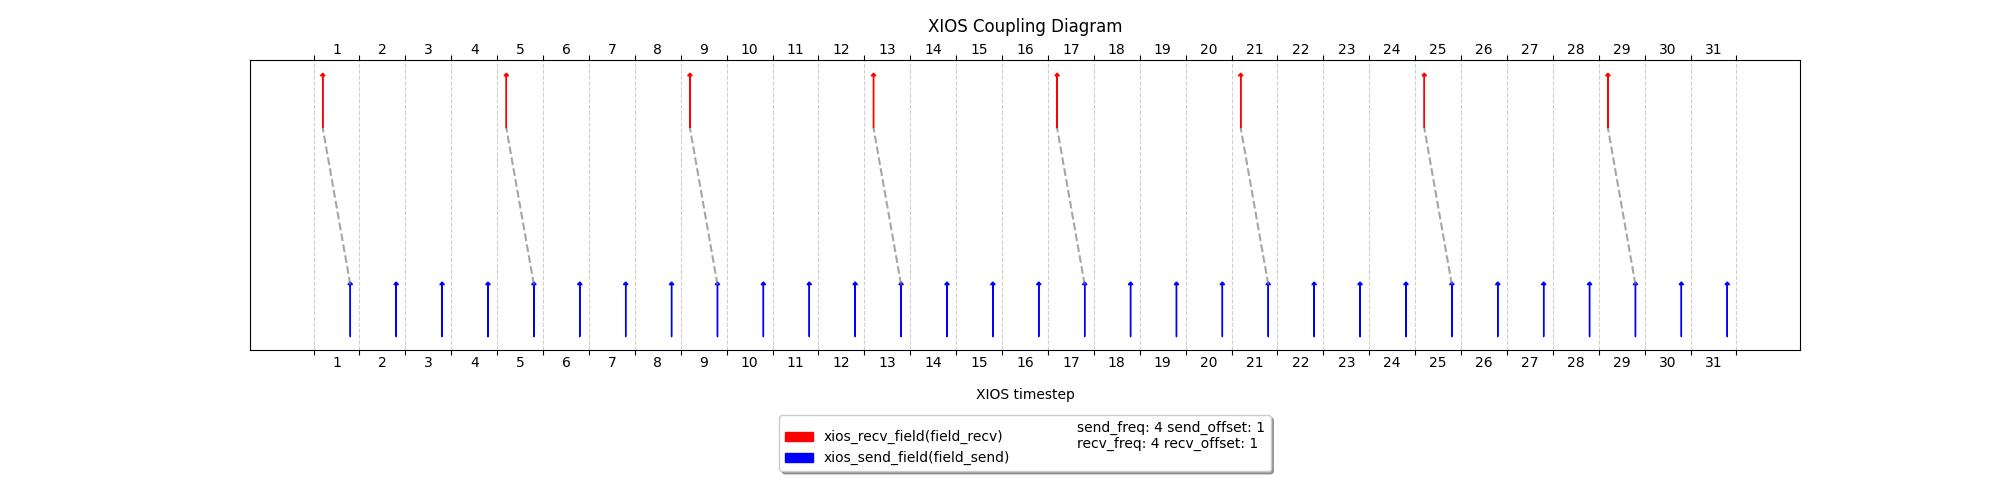
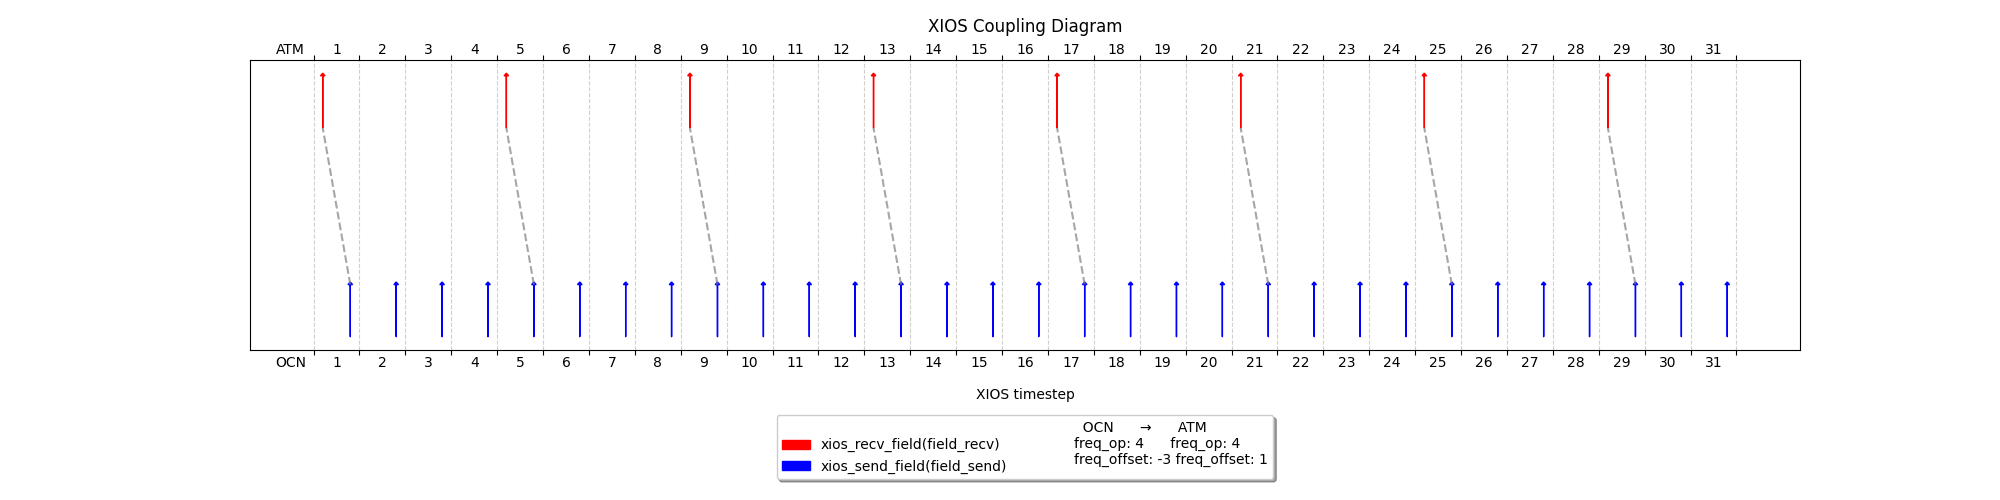
Update plots.

Changed region(s): [[0.372, 0.84, 0.651, 0.99], [0.124, 0.72, 0.155, 0.75], [0.124, 0.09, 0.155, 0.12]]

diff --git a/scripts/plot_coupling.py b/scripts/plot_coupling.py
@@ -3,6 +3,9 @@ import numpy as np
 
 class XiosCouplerPlotter:
     
+    field_bottom_label = "OCN"
+    field_top_label = "ATM"
+
     '''
         Add ticks but manually add the labels of the timesteps between two consecutive ticks.
     '''
@@ -14,6 +17,10 @@ class XiosCouplerPlotter:
         # Show ticks on bottom and top
         ax.tick_params(axis='x', which='both', top=True, bottom=True)
         ax.set_xlabel("XIOS timestep", labelpad=20)
+
+        # FIELDS LABELS
+        ax.text(-0.5, -0.5, self.field_bottom_label, ha='center', va='center', color='black')
+        ax.text(-0.5, self.figsize[1] + 0.5, self.field_top_label, ha='center', va='center', color='black')
 
         # Setting manually the labels of the timesteps between two consecutive ticks,
         # meaning placing the timestep 1 label between t=0 and t=1 and so on.
@@ -45,7 +52,7 @@ class XiosCouplerPlotter:
             # Reciving calls are only done at coupling frequency (current limitation of XIOS)
             # Do not plot the first receive if there is a starting file recv
             # If there is no file to load, then plot the arrow also at the first timestep
-            if (ts-1) % recv_freq == 0 and (ts >= (recv_offset+1) or not restart_file):
+            if (ts-1) % recv_freq == 0 and (ts >= recv_offset or not restart_file):
 
                 ax.arrow(time + self.padding, self.figsize[1] - self.arrow_height, 0, self.arrow_height, head_width=0.1, head_length=0.05, 
                     color='r',
@@ -62,8 +69,11 @@ class XiosCouplerPlotter:
 
         lag = 1 if restart_file else 0 
 
+        # Emulating the behaviour of XIOS paramaters, still to indagate
+        starting_timestep = send_freq + send_offset 
+
         # Display coupling (connect the arrows)
-        for ts in range(send_offset, timesteps+1, send_freq):
+        for ts in range(starting_timestep, timesteps+1, send_freq):
             # Draw a line connecting the arrowheads
             if(ts > 0):
                 ax.plot([ts - self.padding, ts - 1 + lag + self.padding], [self.arrow_height, self.figsize[1] - self.arrow_height], color='gray', linestyle='--', alpha=0.7)
@@ -87,7 +97,9 @@ class XiosCouplerPlotter:
             fancybox=True, shadow=True, ncol=2)
 
     def add_parameters_to_legend(self, ax, send_freq, recv_freq, send_offset, recv_offset):
-        plt.plot([],[], ' ', label=f"send_freq: {send_freq} send_offset: {send_offset}\nrecv_freq: {recv_freq} recv_offset: {recv_offset}")
+
+        label = f"  {self.field_bottom_label}      →      {self.field_top_label}" 
+        plt.plot([],[], ' ', label=f"{label}\nfreq_op: {send_freq}      freq_op: {recv_freq}\nfreq_offset: {send_offset} freq_offset: {recv_offset}")
 
     def __init__(self, figsize=None, arrow_height=2, padding=0.2):
         self.figsize = figsize
@@ -128,5 +140,5 @@ class XiosCouplerPlotter:
 pl = XiosCouplerPlotter(arrow_height=2, padding=0.2)
 
 # Specific algorithm parameters for the plot
-#pl.plot(timesteps=20, send_freq=4, recv_freq=4, recv_offset=5, send_offset=0, restart_file=True, save_file=True)
-pl.plot(timesteps=128, send_freq=4, recv_freq=4, recv_offset=1, send_offset=0, restart_file=True, save_file=True)
+pl.plot(timesteps=30, send_freq=5, send_offset=0, recv_freq=5, recv_offset=6,  restart_file=True, save_file=True)
+#pl.plot(timesteps=31, send_freq=4, send_offset=-3, recv_freq=4, recv_offset=1)
